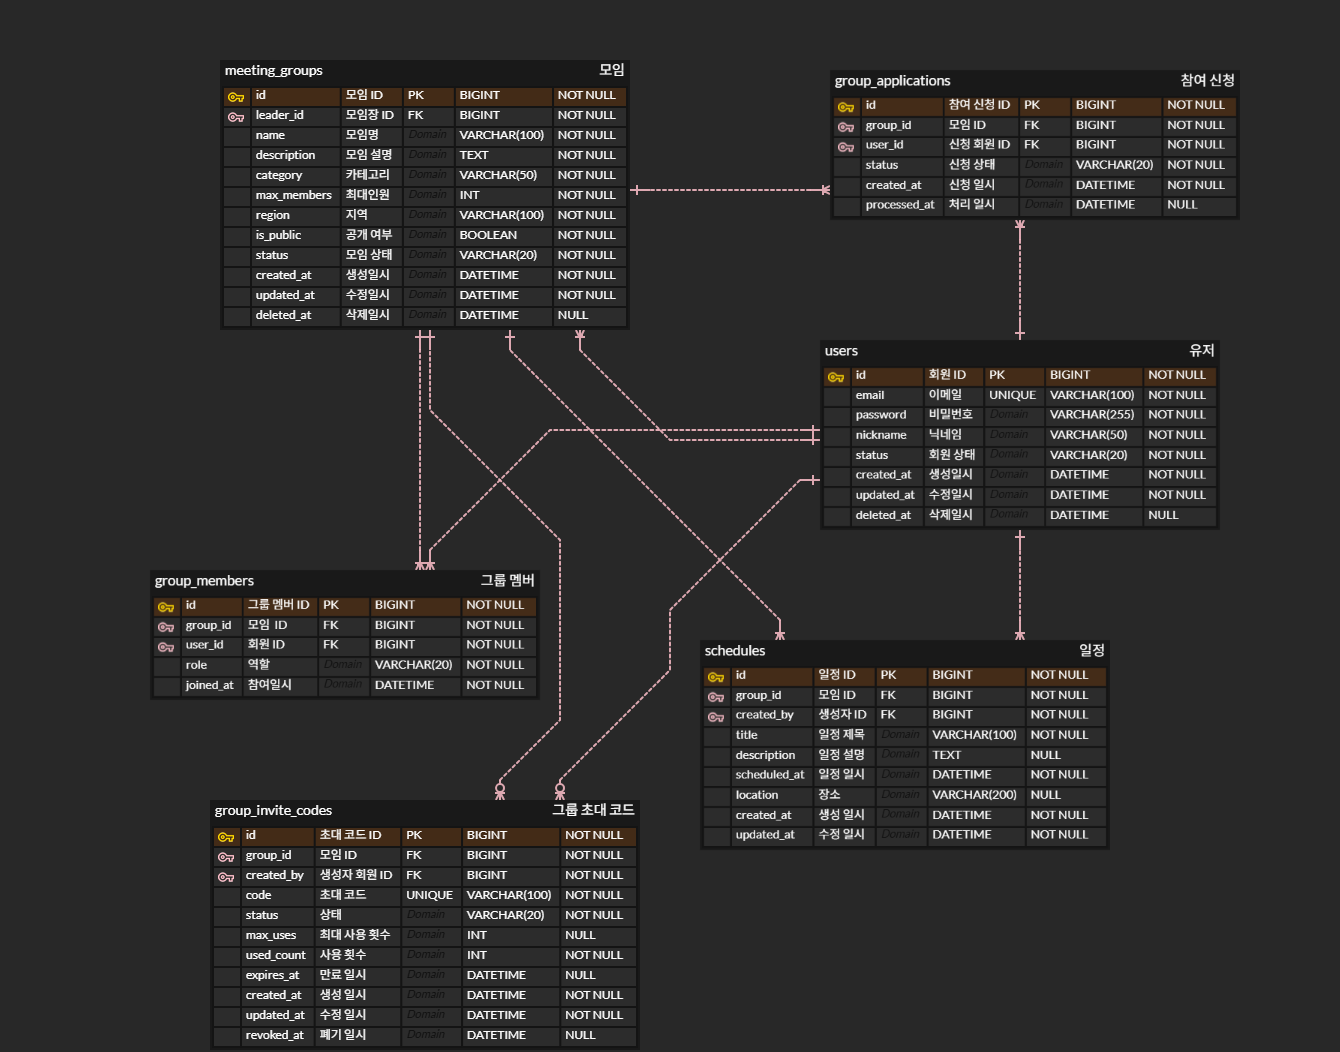
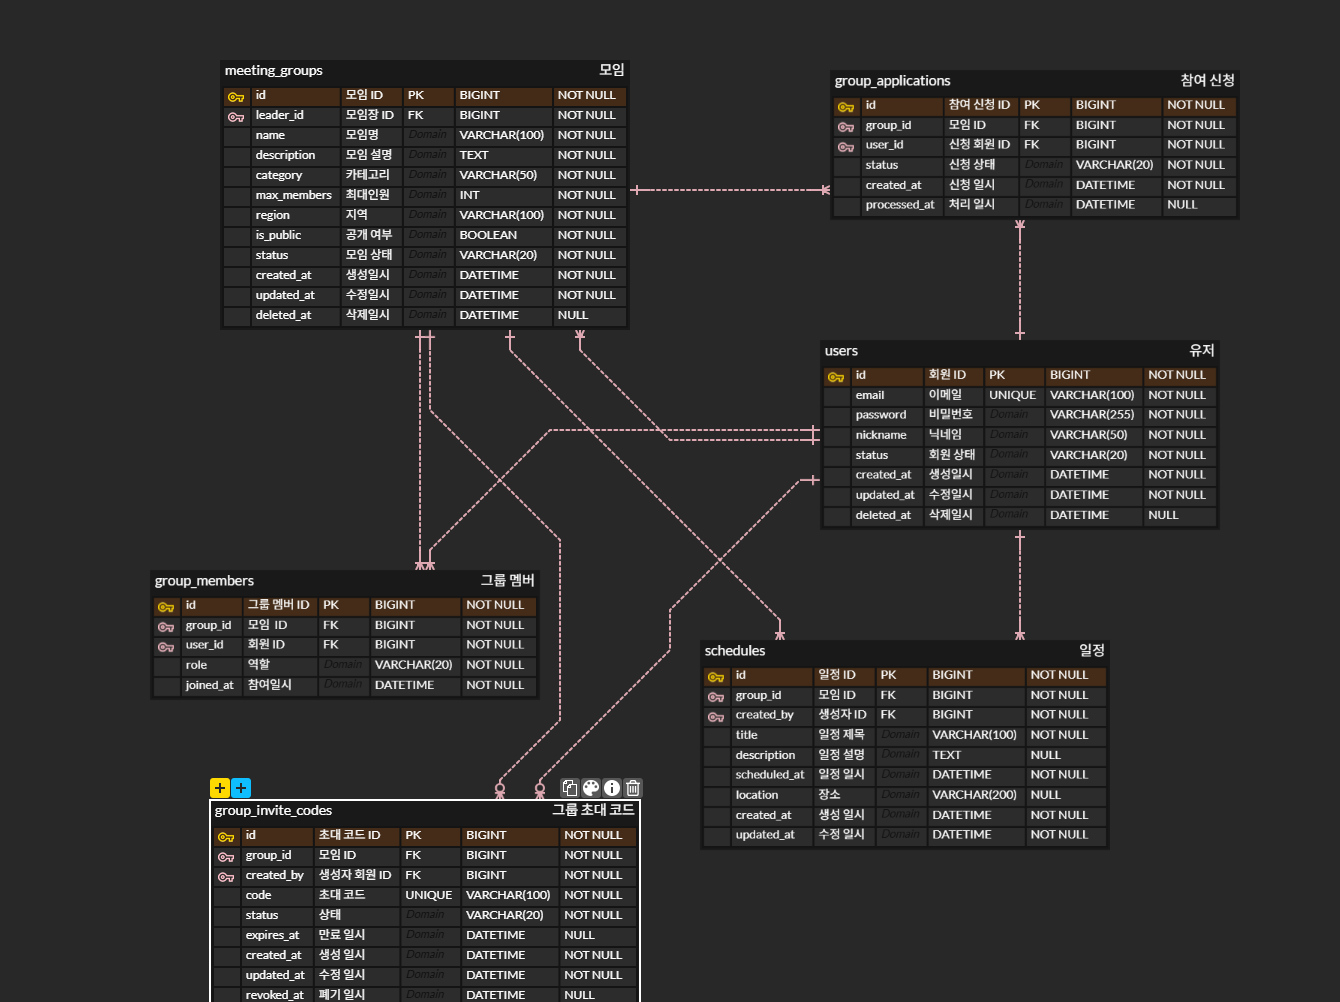
refactor: 초대코드 최대 인원 제거

diff --git a/backend/src/main/java/com/moduplan/groupinvitecode/service/GroupInviteCodeServiceImpl.java b/backend/src/main/java/com/moduplan/groupinvitecode/service/GroupInviteCodeServiceImpl.java
@@ -112,7 +112,6 @@ public class GroupInviteCodeServiceImpl implements GroupInviteCodeService {
 
         GroupMember member = GroupMember.createMember(group, user);
         GroupMember savedMember = groupMemberRepository.save(member);
-        inviteCode.markUsed();
 
         return GroupInviteCodeJoinResponse.from(group, savedMember);
     }
@@ -123,11 +122,6 @@ public class GroupInviteCodeServiceImpl implements GroupInviteCodeService {
         if (inviteCode.getExpiresAt() != null && inviteCode.getExpiresAt().isBefore(now)) {
             inviteCode.expire();
             throw new ConflictException("만료된 초대코드입니다.");
-        }
-
-        if (inviteCode.getMaxUses() != null && inviteCode.getUsedCount() >= inviteCode.getMaxUses()) {
-            inviteCode.revoke();
-            throw new ConflictException("사용 가능한 횟수를 초과한 초대코드입니다.");
         }
     }
 
@@ -150,7 +144,6 @@ public class GroupInviteCodeServiceImpl implements GroupInviteCodeService {
         GroupInviteCode inviteCode = GroupInviteCode.create(
                 group,
                 generateUniqueCode(),
-                null,
                 null,
                 user
         );

diff --git a/backend/src/main/java/com/moduplan/groupinvitecode/entity/GroupInviteCode.java b/backend/src/main/java/com/moduplan/groupinvitecode/entity/GroupInviteCode.java
@@ -38,12 +38,6 @@ public class GroupInviteCode {
     @Column(nullable = false, length = 20)
     private GroupInviteCodeStatus status;
 
-    @Column(name = "max_uses")
-    private Integer maxUses;
-
-    @Column(name = "used_count", nullable = false)
-    private Integer usedCount;
-
     @Column(name = "expires_at")
     private LocalDateTime expiresAt;
 
@@ -63,7 +57,6 @@ public class GroupInviteCode {
     public static GroupInviteCode create(
             Group group,
             String code,
-            Integer maxUses,
             LocalDateTime expiresAt,
             User createdBy
     ) {
@@ -73,18 +66,11 @@ public class GroupInviteCode {
                 .group(group)
                 .code(code)
                 .status(GroupInviteCodeStatus.ACTIVE)
-                .maxUses(maxUses)
-                .usedCount(0)
                 .expiresAt(expiresAt)
                 .createdBy(createdBy)
                 .createdAt(now)
                 .updatedAt(now)
                 .build();
-    }
-
-    public void markUsed() {
-        this.usedCount += 1;
-        this.updatedAt = LocalDateTime.now();
     }
 
     public void expire() {

diff --git a/backend/src/main/java/com/moduplan/groupinvitecode/dto/GroupInviteCodeCreateResponse.java b/backend/src/main/java/com/moduplan/groupinvitecode/dto/GroupInviteCodeCreateResponse.java
@@ -9,8 +9,6 @@ public record GroupInviteCodeCreateResponse(
         Long groupId,
         String code,
         String status,
-        Integer maxUses,
-        Integer usedCount,
         LocalDateTime expiresAt,
         LocalDateTime createdAt
 ) {
@@ -20,8 +18,6 @@ public record GroupInviteCodeCreateResponse(
                 inviteCode.getGroup().getId(),
                 inviteCode.getCode(),
                 inviteCode.getStatus().name(),
-                inviteCode.getMaxUses(),
-                inviteCode.getUsedCount(),
                 inviteCode.getExpiresAt(),
                 inviteCode.getCreatedAt()
         );
